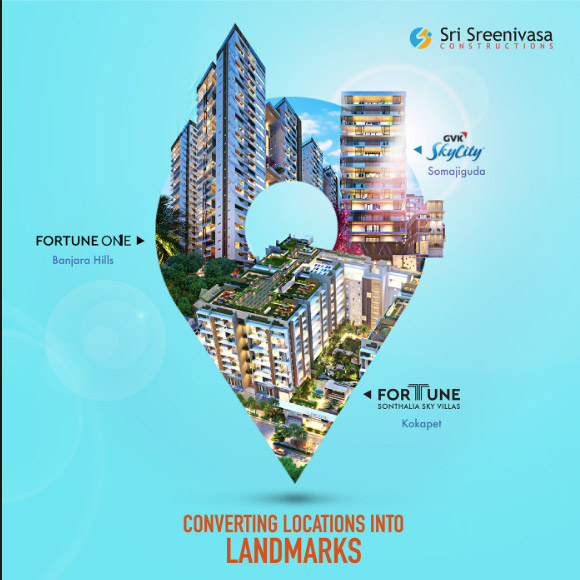
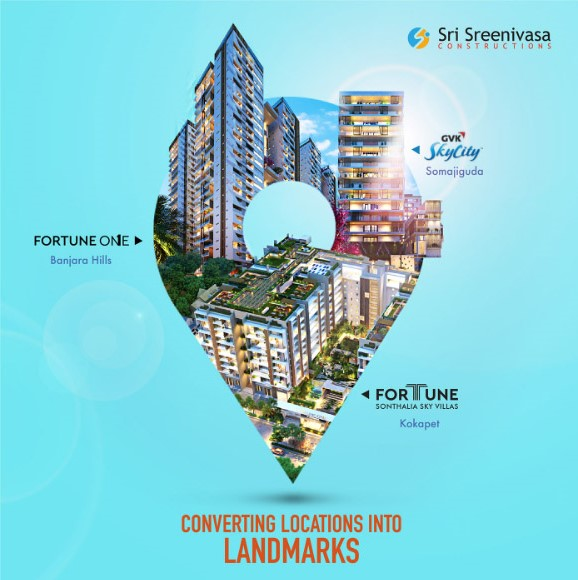
Updated Changes reviewed by satya and decreased some images size

diff --git a/qaffeine.html b/qaffeine.html
@@ -17,82 +17,105 @@
           <img src="/assets/Qaffeine/Jpg/05pack.jpg" alt="" />
           <img src="/assets/Qaffeine/Jpg/06pack.jpg" alt="" />
           <img src="/assets/Qaffeine/Jpg/07pack.jpg" alt="" />
-          <img src="/assets/Qaffeine/Jpg/Bistro 2.jpg" alt="" />
+          <img
+            src="/assets/Qaffeine/Jpg/Bistro 2.jpg"
+            alt=""
+            class="width-55p"
+          />
           <img
             src="/assets/Qaffeine/Jpg/social post/Animation/Store open post-06.jpg"
             alt=""
+            class="width-70p"
           />
           <img
             src="/assets/Qaffeine/Jpg/social post/Animation/Store open post-07.jpg"
             alt=""
+            class="width-70p"
           />
           <img
             src="/assets/Qaffeine/Jpg/social post/Animation/Store open post-08.jpg"
             alt=""
+            class="width-70p"
           />
           <img
             src="/assets/Qaffeine/Jpg/social post/Animation/Store open post-09.jpg"
             alt=""
+            class="width-70p"
           />
           <img
             src="/assets/Qaffeine/Jpg/social post/Milkshake/milkshake post-01.jpg"
             alt=""
+            class="width-70p"
           />
           <img
             src="/assets/Qaffeine/Jpg/social post/Milkshake/milkshake post-02.jpg"
             alt=""
+            class="width-70p"
           />
           <img
             src="/assets/Qaffeine/Jpg/social post/Milkshake/milkshake post-03.jpg"
             alt=""
+            class="width-70p"
           />
           <img
             src="/assets/Qaffeine/Jpg/social post/Milkshake/post with animation-03.jpg"
             alt=""
+            class="width-70p"
           />
           <img
             src="/assets/Qaffeine/Jpg/social post/Monsoon/Rainy post-03.jpg"
             alt=""
+            class="width-70p"
           />
           <img
             src="/assets/Qaffeine/Jpg/social post/Waterdrop/milkshake post-05.jpg"
             alt=""
+            class="width-70p"
           />
           <img
             src="/assets/Qaffeine/Jpg/social post/Waterdrop/milkshake post-06.jpg"
             alt=""
+            class="width-70p"
           />
           <img
             src="/assets/Qaffeine/Jpg/social post/Waterdrop/milkshake post-07.jpg"
             alt=""
+            class="width-70p"
           />
           <img
             src="/assets/Qaffeine/Jpg/social post/Waterdrop/milkshake post-09.jpg"
             alt=""
+            class="width-70p"
           />
           <img
             src="/assets/Qaffeine/Jpg/social post/Waterdrop/milkshake post-11.jpg"
             alt=""
+            class="width-70p"
           />
           <img
             src="/assets/Qaffeine/Jpg/social post/Waterdrop/milkshake post-19.jpg"
             alt=""
+            class="width-70p"
           />
           <img
             src="/assets/Qaffeine/Jpg/social post/Waterdrop/milkshake post-20.jpg"
             alt=""
+            class="width-70p"
           />
           <img
             src="/assets/Qaffeine/Jpg/social post/Waterdrop/milkshake post-21.jpg"
             alt=""
+            class="width-70p"
           />
           <img
             src="/assets/Qaffeine/Jpg/social post/Waterdrop/milkshake post-22.jpg"
             alt=""
+            class="width-70p"
           />
           <img
             src="/assets/Qaffeine/Jpg/social post/Waterdrop/milkshake post-23.jpg"
             alt=""
+            class="width-70p"
           />
         </div>
         <div class="client-btn">

diff --git a/tv18.html b/tv18.html
@@ -11,32 +11,17 @@
       <div class="client-container">
         <div class="img-display">
           <img
-            src="/assets/CNBC TV18/01 CNBC TV 18.jpg"
+            src="/assets/CNBC TV18/01 CNBC TV 18 opt1.jpg"
             alt=""
             class="width-55p"
           />
           <img
-            src="/assets/CNBC TV18/02 CNBC TV 18.jpg"
+            src="/assets/CNBC TV18/02 CNBC TV 18 opt2.jpg"
             alt=""
             class="width-55p"
           />
           <img
-            src="/assets/CNBC TV18/03 CNBC TV 18.jpg"
-            alt=""
-            class="width-55p"
-          />
-          <img
-            src="/assets/CNBC TV18/Part2/01 CNBC TV 18 opt1.jpg"
-            alt=""
-            class="width-55p"
-          />
-          <img
-            src="/assets/CNBC TV18/Part2/02 CNBC TV 18 opt2.jpg"
-            alt=""
-            class="width-55p"
-          />
-          <img
-            src="/assets/CNBC TV18/Part2/03 CNBC TV 18 opt3.jpg"
+            src="/assets/CNBC TV18/03 CNBC TV 18 opt3.jpg"
             alt=""
             class="width-55p"
           />

diff --git a/sbi.html b/sbi.html
@@ -10,12 +10,12 @@
     <section class="client-sec">
       <div class="client-container">
         <div class="img-display">
-          <img src="/assets/SBI/Post/01 SBI.jpg" alt="" />
-          <img src="/assets/SBI/Post/02 SBI.jpg" alt="" />
-          <img src="/assets/SBI/Post/03 SBI.jpg" alt="" />
-          <img src="/assets/SBI/Post/04 SBI.jpg" alt="" />
-          <img src="/assets/SBI/Post/05 SBI.jpg" alt="" />
-          <img src="/assets/SBI/Post/06 SBI.jpg" alt="" />
+          <img src="/assets/SBI/Post/01 SBI.jpg" alt="" class="width-70p" />
+          <img src="/assets/SBI/Post/02 SBI.jpg" alt="" class="width-70p" />
+          <img src="/assets/SBI/Post/03 SBI.jpg" alt="" class="width-70p" />
+          <img src="/assets/SBI/Post/04 SBI.jpg" alt="" class="width-70p" />
+          <img src="/assets/SBI/Post/05 SBI.jpg" alt="" class="width-70p" />
+          <img src="/assets/SBI/Post/06 SBI.jpg" alt="" class="width-70p" />
         </div>
         <div class="client-btn">
           <a href="/work.html#sbi"><button>Back to Work</button></a>

diff --git a/cnbc.html b/cnbc.html
@@ -9,7 +9,11 @@
   <body>
     <section class="client-sec">
       <div class="client-container">
-        <div class="img-display"></div>
+        <div class="img-display">
+          <img src="/assets/CNBC/01 CNBC TV 18.jpg" alt="" class="width-55p" />
+          <img src="/assets/CNBC/02 CNBC TV 18.jpg" alt="" class="width-55p" />
+          <img src="/assets/CNBC/03 CNBC TV 18.jpg" alt="" class="width-55p" />
+        </div>
         <div class="client-btn">
           <a href="/work.html#cnbc"><button>Back to Work</button></a>
         </div>

diff --git a/auberry.html b/auberry.html
@@ -18,7 +18,7 @@
           <img src="/assets/Auberry/Auberry-06.jpg" alt="" />
           <img src="/assets/Auberry/Auberry-07.jpg" alt="" />
           <img src="/assets/Auberry/Auberry-08.jpg" alt="" />
-          <img src="/assets/Auberry/Auberry-09.jpg" alt="" />
+          <img src="/assets/Auberry/Auberry-09.jpg" alt="" class="width-70p" />
           <img src="/assets/Auberry/Auberry-10.jpg" alt="" />
           <img src="/assets/Auberry/Auberry-11.jpg" alt="" />
         </div>

diff --git a/main.scss b/main.scss
@@ -3,6 +3,10 @@
   /* background-color: black; */
 }
 
+html {
+  scroll-behavior: smooth;
+}
+
 body {
   margin: 0;
   padding: 0 !important;
